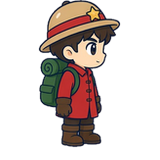
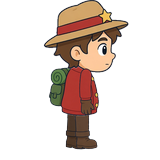
v0.6：新跑步循环帧、移速 4 格/秒、跑动帧率跟移速挂钩、屏幕外布景剔除

Changed region(s): [[0.2188, 0.0, 0.8125, 0.9375]]

diff --git a/src/game/scenes/RunScene.ts b/src/game/scenes/RunScene.ts
@@ -86,6 +86,8 @@ export class RunScene extends Phaser.Scene {
     this.tutorial = Save.data.progress.total_runs === 0 && Save.data.progress.tutorial_step === 0;
     this.buildMap();
     this.buildFx();
+    // 屏幕外的静态布景不渲染（手机上省 CPU）
+    this.statics = this.children.list.filter((o: any) => o.type === 'Image' && o.scrollFactorX === 1) as Img[];
     this.buildHud();
     this.buildMinimap();
     this.buildInput();
@@ -428,7 +430,7 @@ export class RunScene extends Phaser.Scene {
   }
   treasureRarity(id: string): Rarity { return Cfg.treasure.find((t) => t.id === id)?.rarity ?? 'common'; }
   // ======== 小地图（右上角圆形，以主角为中心，1 格 = 4px） ========
-  mm: any = null;
+  mm: any = null; statics: Img[] = []; cullT = 0;
   buildMinimap() {
     const S = 4 / CELL; const top = this.topH + 8; const cx = this.W - 98, cy = top + 88, R = 72;
     const key = 'mm_bg_' + this.floor;
@@ -553,6 +555,7 @@ export class RunScene extends Phaser.Scene {
     if (!frozen) this.updatePlayer(dt);
     this.updateCamera();
     this.updateMinimap();
+    if ((this.cullT = (this.cullT ?? 0) + 1) % 6 === 0) { const v = this.cameras.main.worldView; const m = 260; for (const o of this.statics) { if (!o.active) continue; o.setVisible(o.x > v.x - m && o.x < v.right + m && o.y > v.y - m && o.y < v.bottom + m * 1.6); } }
     this.updateTimer(dt);
     this.updateSpawns(dt);
     this.rebuildGrid();
@@ -599,7 +602,7 @@ export class RunScene extends Phaser.Scene {
     else if (!this.extracting) {
       const anim = this.hurtFlash > 0 ? 'hero_hurt' : this.moving ? 'hero_run' : 'hero_idle';
       if (hs.anims.currentAnim?.key !== anim) hs.play(anim, true);
-      if (anim === 'hero_run') hs.anims.timeScale = clamp(spdNow / this.spd, 0.6, 1.3);
+      if (anim === 'hero_run') hs.anims.timeScale = clamp(spdNow / (4 * CELL), 0.5, 1.6); // 播放速度跟实际移速走，脚不打滑
     }
     const k01 = clamp(spdNow / this.spd, 0, 1);
     const lean = this.facing * 0.1 * k01 + Math.sin(this.animT * 12 * Math.PI / 4) * 0.035 * k01; // 前倾约 6°，每两步左右摆一次

diff --git a/src/game/scenes/BootScene.ts b/src/game/scenes/BootScene.ts
@@ -32,7 +32,7 @@ export class BootScene extends Phaser.Scene {
     // 主角序列帧（美术：跑 8 帧 12fps、待机 6 帧 8fps、受击 2 帧）
     const fr = (n: string, k: number) => Array.from({ length: k }, (_, i) => ({ key: `chr_player_${n}_${String(i + 1).padStart(2, '0')}` }));
     if (!this.anims.exists('hero_run')) {
-      this.anims.create({ key: 'hero_run', frames: fr('run', 8), frameRate: 12, repeat: -1 });
+      this.anims.create({ key: 'hero_run', frames: fr('run', 8), frameRate: 14, repeat: -1 });
       this.anims.create({ key: 'hero_idle', frames: fr('idle', 6), frameRate: 8, repeat: -1 });
       this.anims.create({ key: 'hero_hurt', frames: fr('hurt', 2), frameRate: 12, repeat: -1 });
     }
